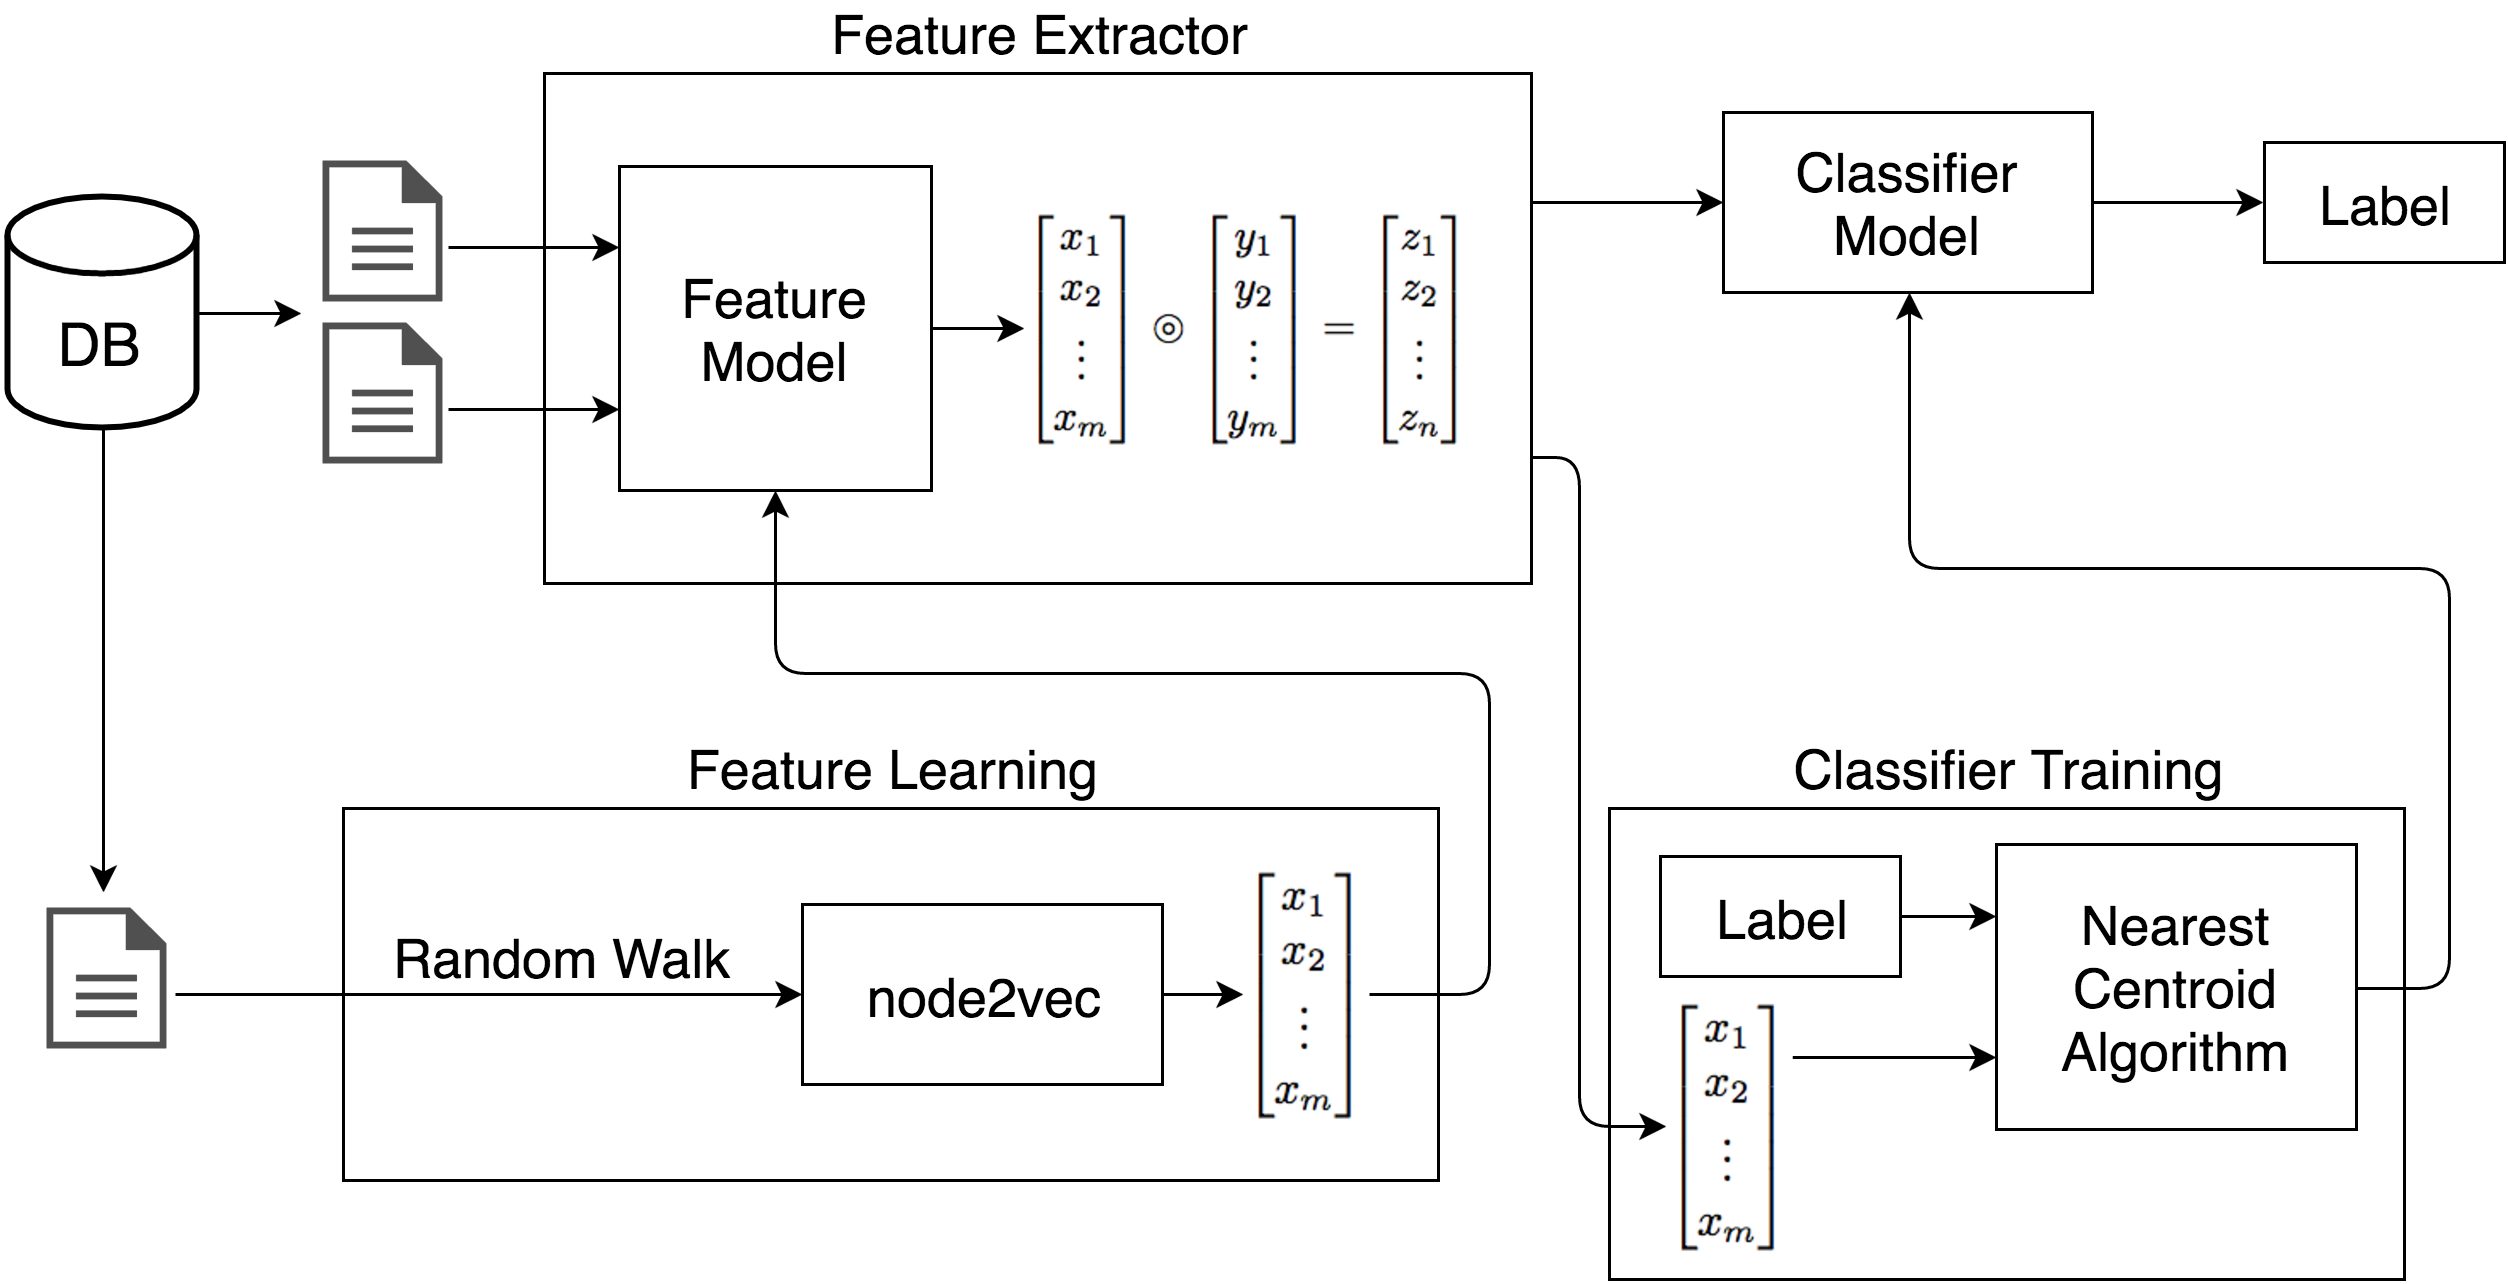
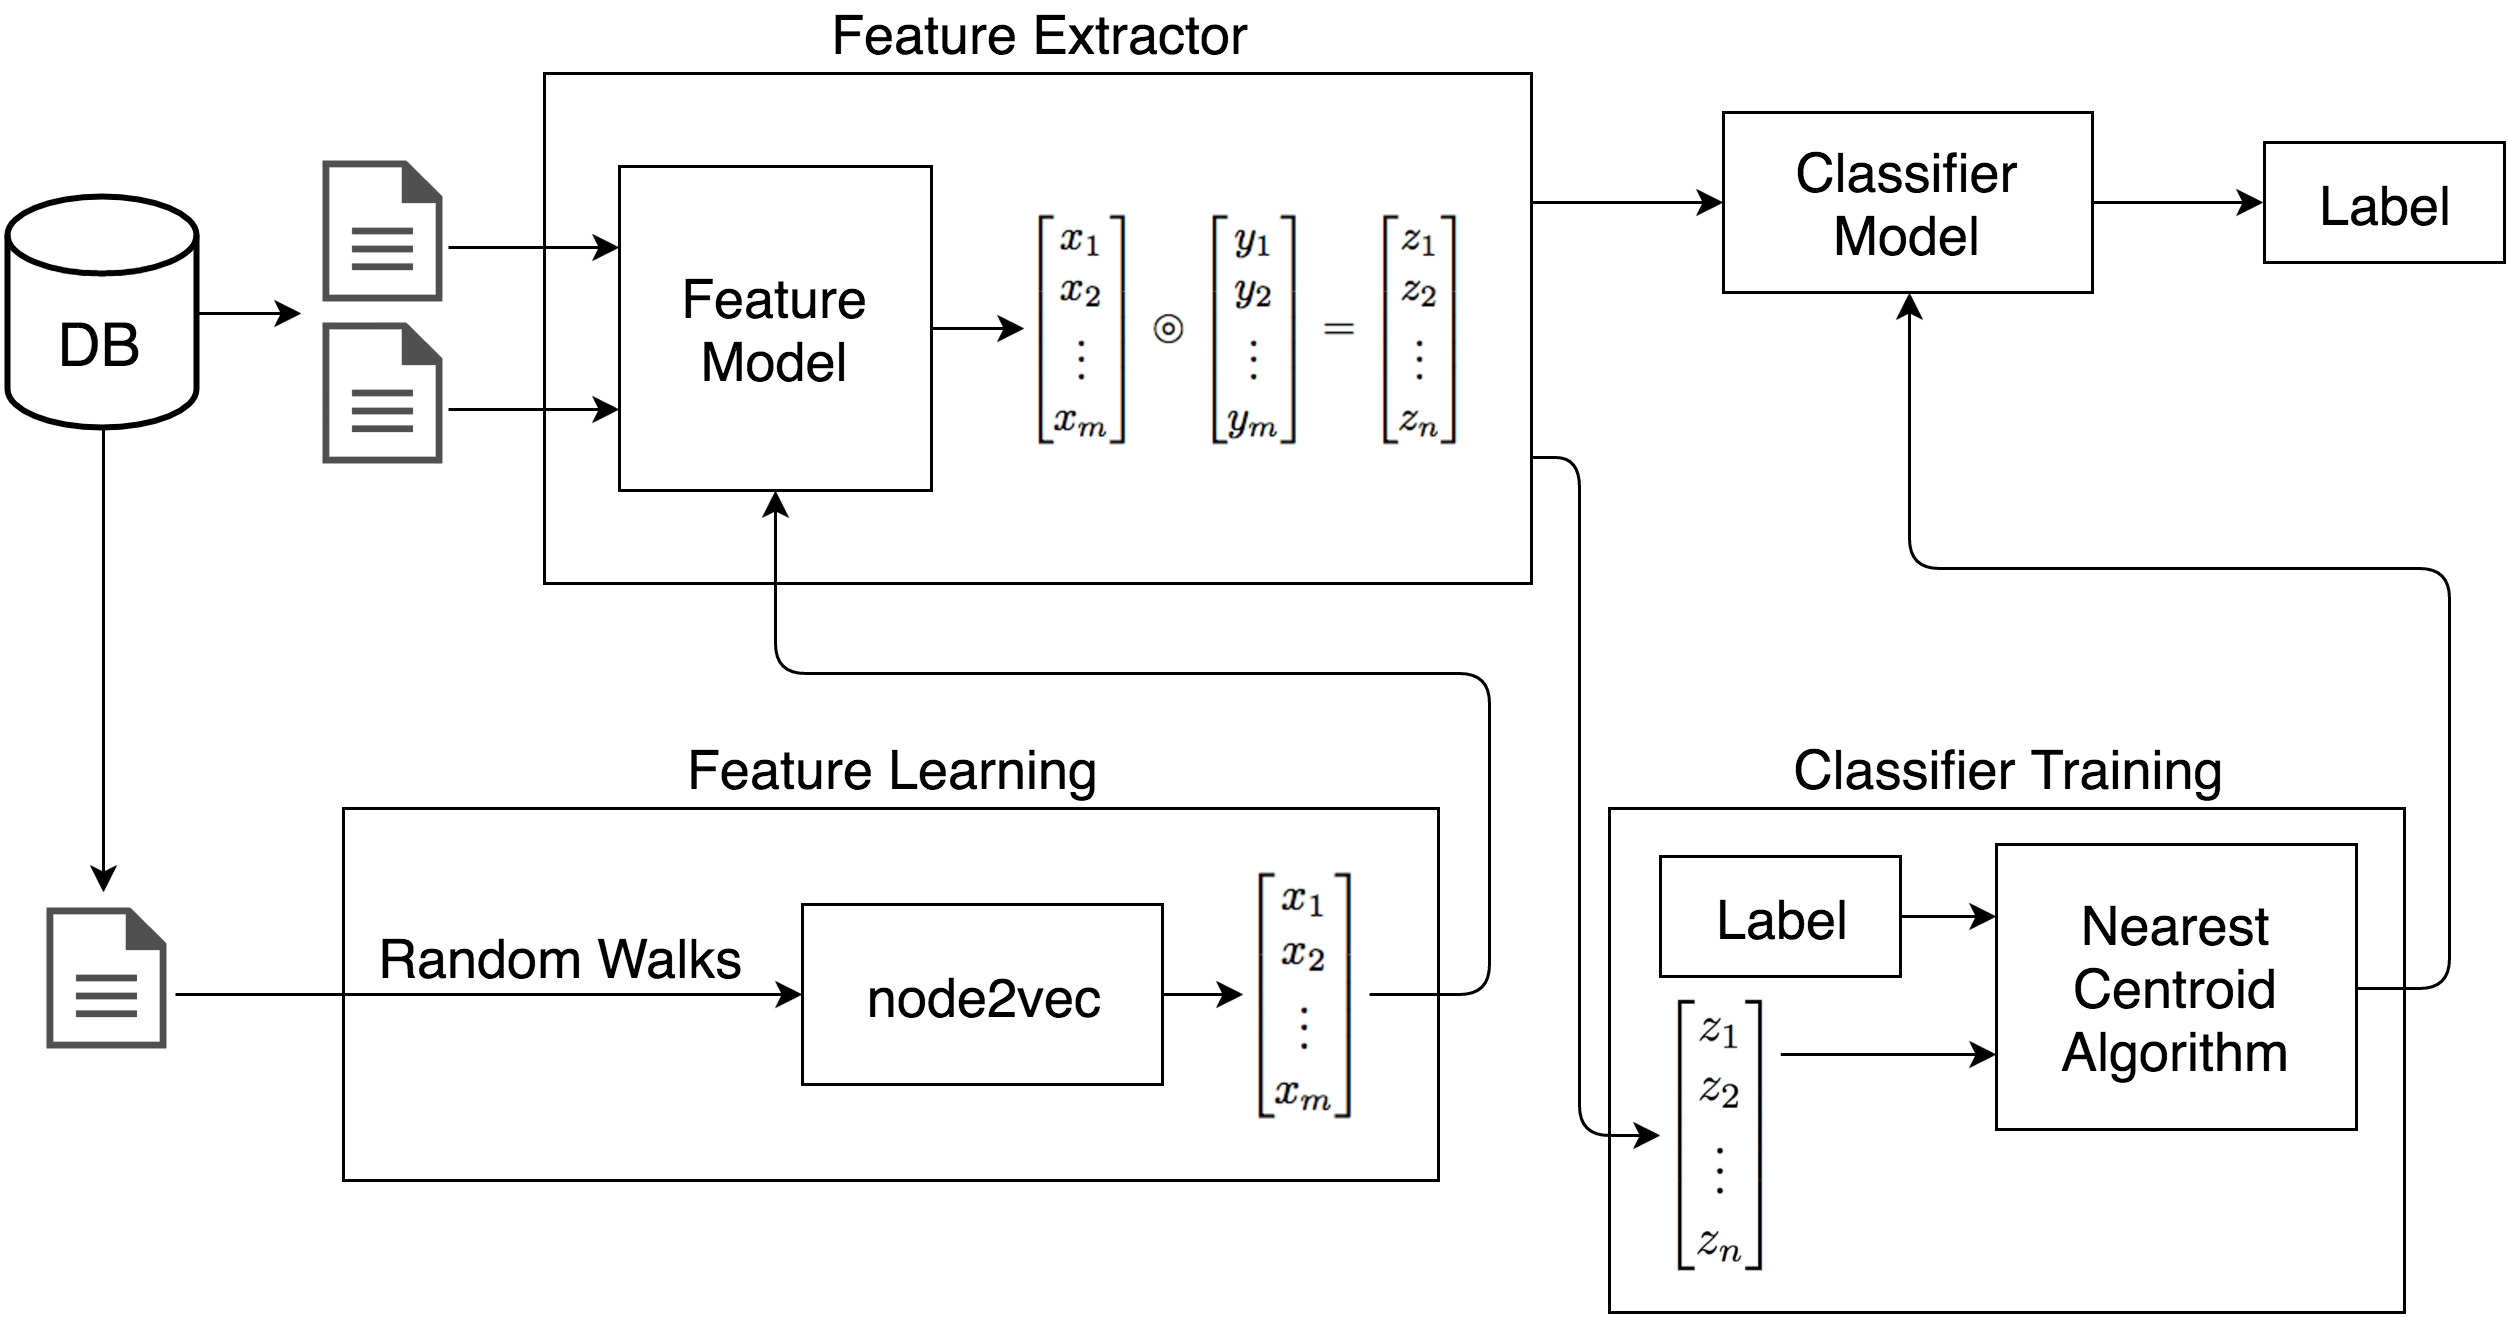
rettelser

diff --git a/presentation/design2.tex b/presentation/design2.tex
@@ -9,6 +9,15 @@
   \end{center}
 \end{frame}
 
+
+\begin{frame}
+    \centering
+    \resizebox{\textwidth}{!}{%
+      \input{system-overview-fig}
+    }
+\end{frame}
+
+
 % Normal slide:
 \begin{frame}
     \frametitle{Database}
@@ -22,10 +31,10 @@
         \item Links
         \item Redirects
       \end{itemize}
-      \item Graph Database (Neo4j)
+      \item Graph Database
       \begin{itemize}
         \item Queries
-        \item Plugins: Random Walk
+        \item Plugins: Random Walks
       \end{itemize}
     \end{itemize}
 
@@ -43,8 +52,8 @@
     \centering
 
     \begin{itemize}
-      \item Total article links: 138.864.625 % (138.422.339)
-      \item Links from featured articles: 737.143 (0.53\%)
+      \item Total article links: 138,864,625 % (138.422.339)
+      \item Links from featured articles: 737,143 (0.53\%)
     \end{itemize}
 
     \includegraphics[width=\textwidth]{link-distribution}
@@ -55,14 +64,6 @@
     \item Ground truth
   \end{itemize}
 }
-
-
-\begin{frame}
-    \centering
-    \resizebox{\textwidth}{!}{%
-      \input{system-overview-fig}
-    }
-\end{frame}
 
 
 \begin{frame}
